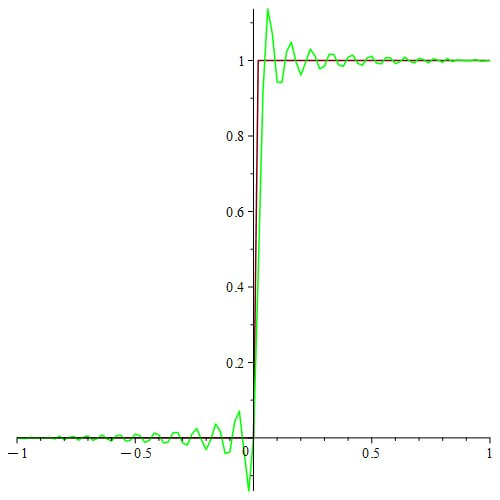
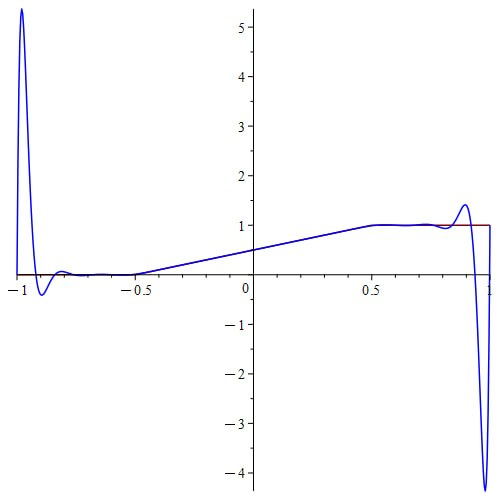
Implement admonition

diff --git a/theory/intro.tex b/theory/intro.tex
@@ -4,7 +4,7 @@
 
 Історично перші геометричні перетворення виконувалися над неперервними (аналоговими) зображеннями за допомогою оптичних систем. Попри високу швидкість роботи, такі системи були обмежені у гнучкості та можливостях контролю, що зумовило повний перехід сучасних алгоритмів на роботу виключно з цифровими (дискретними) зображеннями. Найперші дослідження у цій сфері виникли в середині 1960-х років у програмах космічних спостережень NASA (таких як Landsat та Skylab) для вирішення задач суміщення зображень (image registration) — вирівнювання знімків однієї ділянки, зроблених у різний час або різними сенсорами, задля компенсації спотворень. Згодом ці методи поширилися на комп'ютерний зір, медичну візуалізацію та комп'ютерну графіку.
 
-Прямим, найважливішим і найбільш поширеним частковим випадком геометричних перетворень є \textbf{масштабування зображень}. Масштабування полягає у представленні та зміні розміру оригінального зображення шляхом використання більшої або меншої кількості пікселей. Головна мета цього процесу — отримати зображення іншого розміру, максимально зберігши оригінальний вміст із мінімальними втратами якості. Масштабування реалізується у двох протилежних напрямках:
+Прямим, найважливішим і найбільш поширеним частковим випадком геометричних перетворень є \textbf{масштабування зображень}. Масштабування полягає у представленні та зміні розміру оригінального зображення шляхом використання більшої або меншої кількості пікселів. Головна мета цього процесу — отримати зображення іншого розміру, максимально зберігши оригінальний вміст із мінімальними втратами якості. Масштабування реалізується у двох протилежних напрямках:
 \begin{itemize}
 	\item \textbf{Зменшення масштабу (downscaling):} процес стиснення, за якого розмір вхідного зображення високої роздільної здатності (HR) зменшується для отримання цільового зображення низької роздільної здатності (LR). Ця операція є фундаментальною для швидкого перегляду або обміну даними.
 	\item \textbf{Збільшення масштабу (upscaling):} процес покращення, в якому розмір вхідного зображення низької роздільної здатності (LR) збільшується для відновлення або отримання цільового зображення високої роздільної здатності (HR). Це дозволяє виділити та підкреслити важливі деталі об'єктів.

diff --git a/theory/runge.tex b/theory/runge.tex
@@ -8,4 +8,4 @@
 
 У контексті цифрової обробки зображень феномен Рунге є критичною перешкодою. Цифрові сенсори та дисплеї фіксують і відтворюють зображення на ідеально рівномірній ортогональній сітці пікселів. Якби для зміни масштабу або просторового перетворення цілого зображення використовувалася глобальна поліноміальна інтерполяція за цими рівновіддаленими пікселями, це призвело б до повного руйнування візуальної інформації на краях зображення через екстремальні викиди яскравості та кольору.
 
-Саме неможливість використання рівномірної сітки для стабільної апроксимації високого порядку фундаментально обґрунтовує необхідність переходу до нерівномірних сіток. Як доводиться в теорії наближень, щоб нівелювати феномен Рунге та забезпечити рівномірну збіжність інтерполяційного процесу, вузли повинні бути асимптотично згущені на краях інтервалу. Ідеальною математичною моделлю, що задовольняє цю умову і гарантує алгоритмічну стійкість, є розподіл вузлів Чебишева. Таким чином, відмова від рівновіддалених вузлів на користь чебишовської сітки є не просто оптимізацією, а єдино коректним математичним шляхом для побудови стійких поліноміальних інтерполянтів.
+Саме неможливість використання рівномірної сітки для стабільної апроксимації високого порядку фундаментально обґрунтовує необхідність переходу до нерівномірних сіток, або поліномів низького степеня. Як доводиться в теорії наближень, щоб нівелювати феномен Рунге та забезпечити рівномірну збіжність інтерполяційного процесу, вузли повинні бути асимптотично згущені на краях інтервалу. Ідеальною математичною моделлю, що задовольняє цю умову і гарантує алгоритмічну стійкість, є розподіл вузлів Чебишева. Таким чином, відмова від рівновіддалених вузлів на користь чебишовської сітки є не просто оптимізацією, а єдино коректним математичним шляхом для побудови стійких поліноміальних інтерполянтів.

diff --git a/theory/chebyshev.tex b/theory/chebyshev.tex
@@ -10,7 +10,7 @@
 	\caption{Точки Чебишева}
 \end{figure}
 
-Проєкція цих точок на дійсну вісь дає класичне визначення вузлів Чебишева:
+Проєкція цих точок на дійсну вісь дає класичне визначення точок екстремумів поліномів Чебишева другого роду:
 \begin{equation}\label{eq:cheb_nodes_def}
 	x_j = \cos\left(\frac{j\pi}{n}\right), \qquad 0 \le j \le n.
 \end{equation}
@@ -22,6 +22,6 @@
 
 Властивість існування та єдиності поліноміального інтерполянта є справедливою для будь-якого набору попарно різних точок. У специфічному випадку використання вузлів Чебишева отриманий поліном називається \textit{чебишовським інтерполянтом}.
 
-Відомо, що поліноміальні інтерполянти, побудовані на рівномірній сітці точок, мають вкрай погані математичні властивості. Натомість інтерполяція за вузлами Чебишева демонструє відмінну збіжність. Фундаментальна різниця між цими підходами полягає у кластеризації (згущенні) точок поблизу кінців інтервалу $1$ та $-1$.
+Відомо, що поліноміальні інтерполянти, побудовані на рівномірній сітці точок, мають вкрай погані математичні властивості. Натомість інтерполяція за вузлами Чебишева демонструє відмінну збіжність при слабких вимогах на мінімальну гладкість функції. Фундаментальна різниця між цими підходами полягає у кластеризації (згущенні) точок поблизу кінців інтервалу $1$ та $-1$.
 
 Головна особливість вузлів Чебишева полягає в тому, що кожна точка сітки має приблизно однакову середню відстань до всіх інших точок, якщо вимірювати її в сенсі середнього геометричного. Для інтервалу $[-1, 1]$ ця усереднена відстань становить близько $1/2$. Саме ця топологічна рівновага забезпечує абсолютну стійкість чебишовського інтерполянта.

diff --git a/theory/mathModel.tex b/theory/mathModel.tex
@@ -52,7 +52,7 @@
 \begin{equation}\tag{8}
 	I_{k,h}^{res} := f(x_k^N, x_h^M), \quad k = 1, \dots, N, \quad h = 1, \dots, M,
 \end{equation}
-де $\tilde{f}$ позначає пошкоджену версію функції вихідного зображення.
+де $\tilde{f}$ позначає спотворену версію функції вихідного зображення.
 
 \subsubsection{Векторно-матричне представлення дискретних зображень}
 
